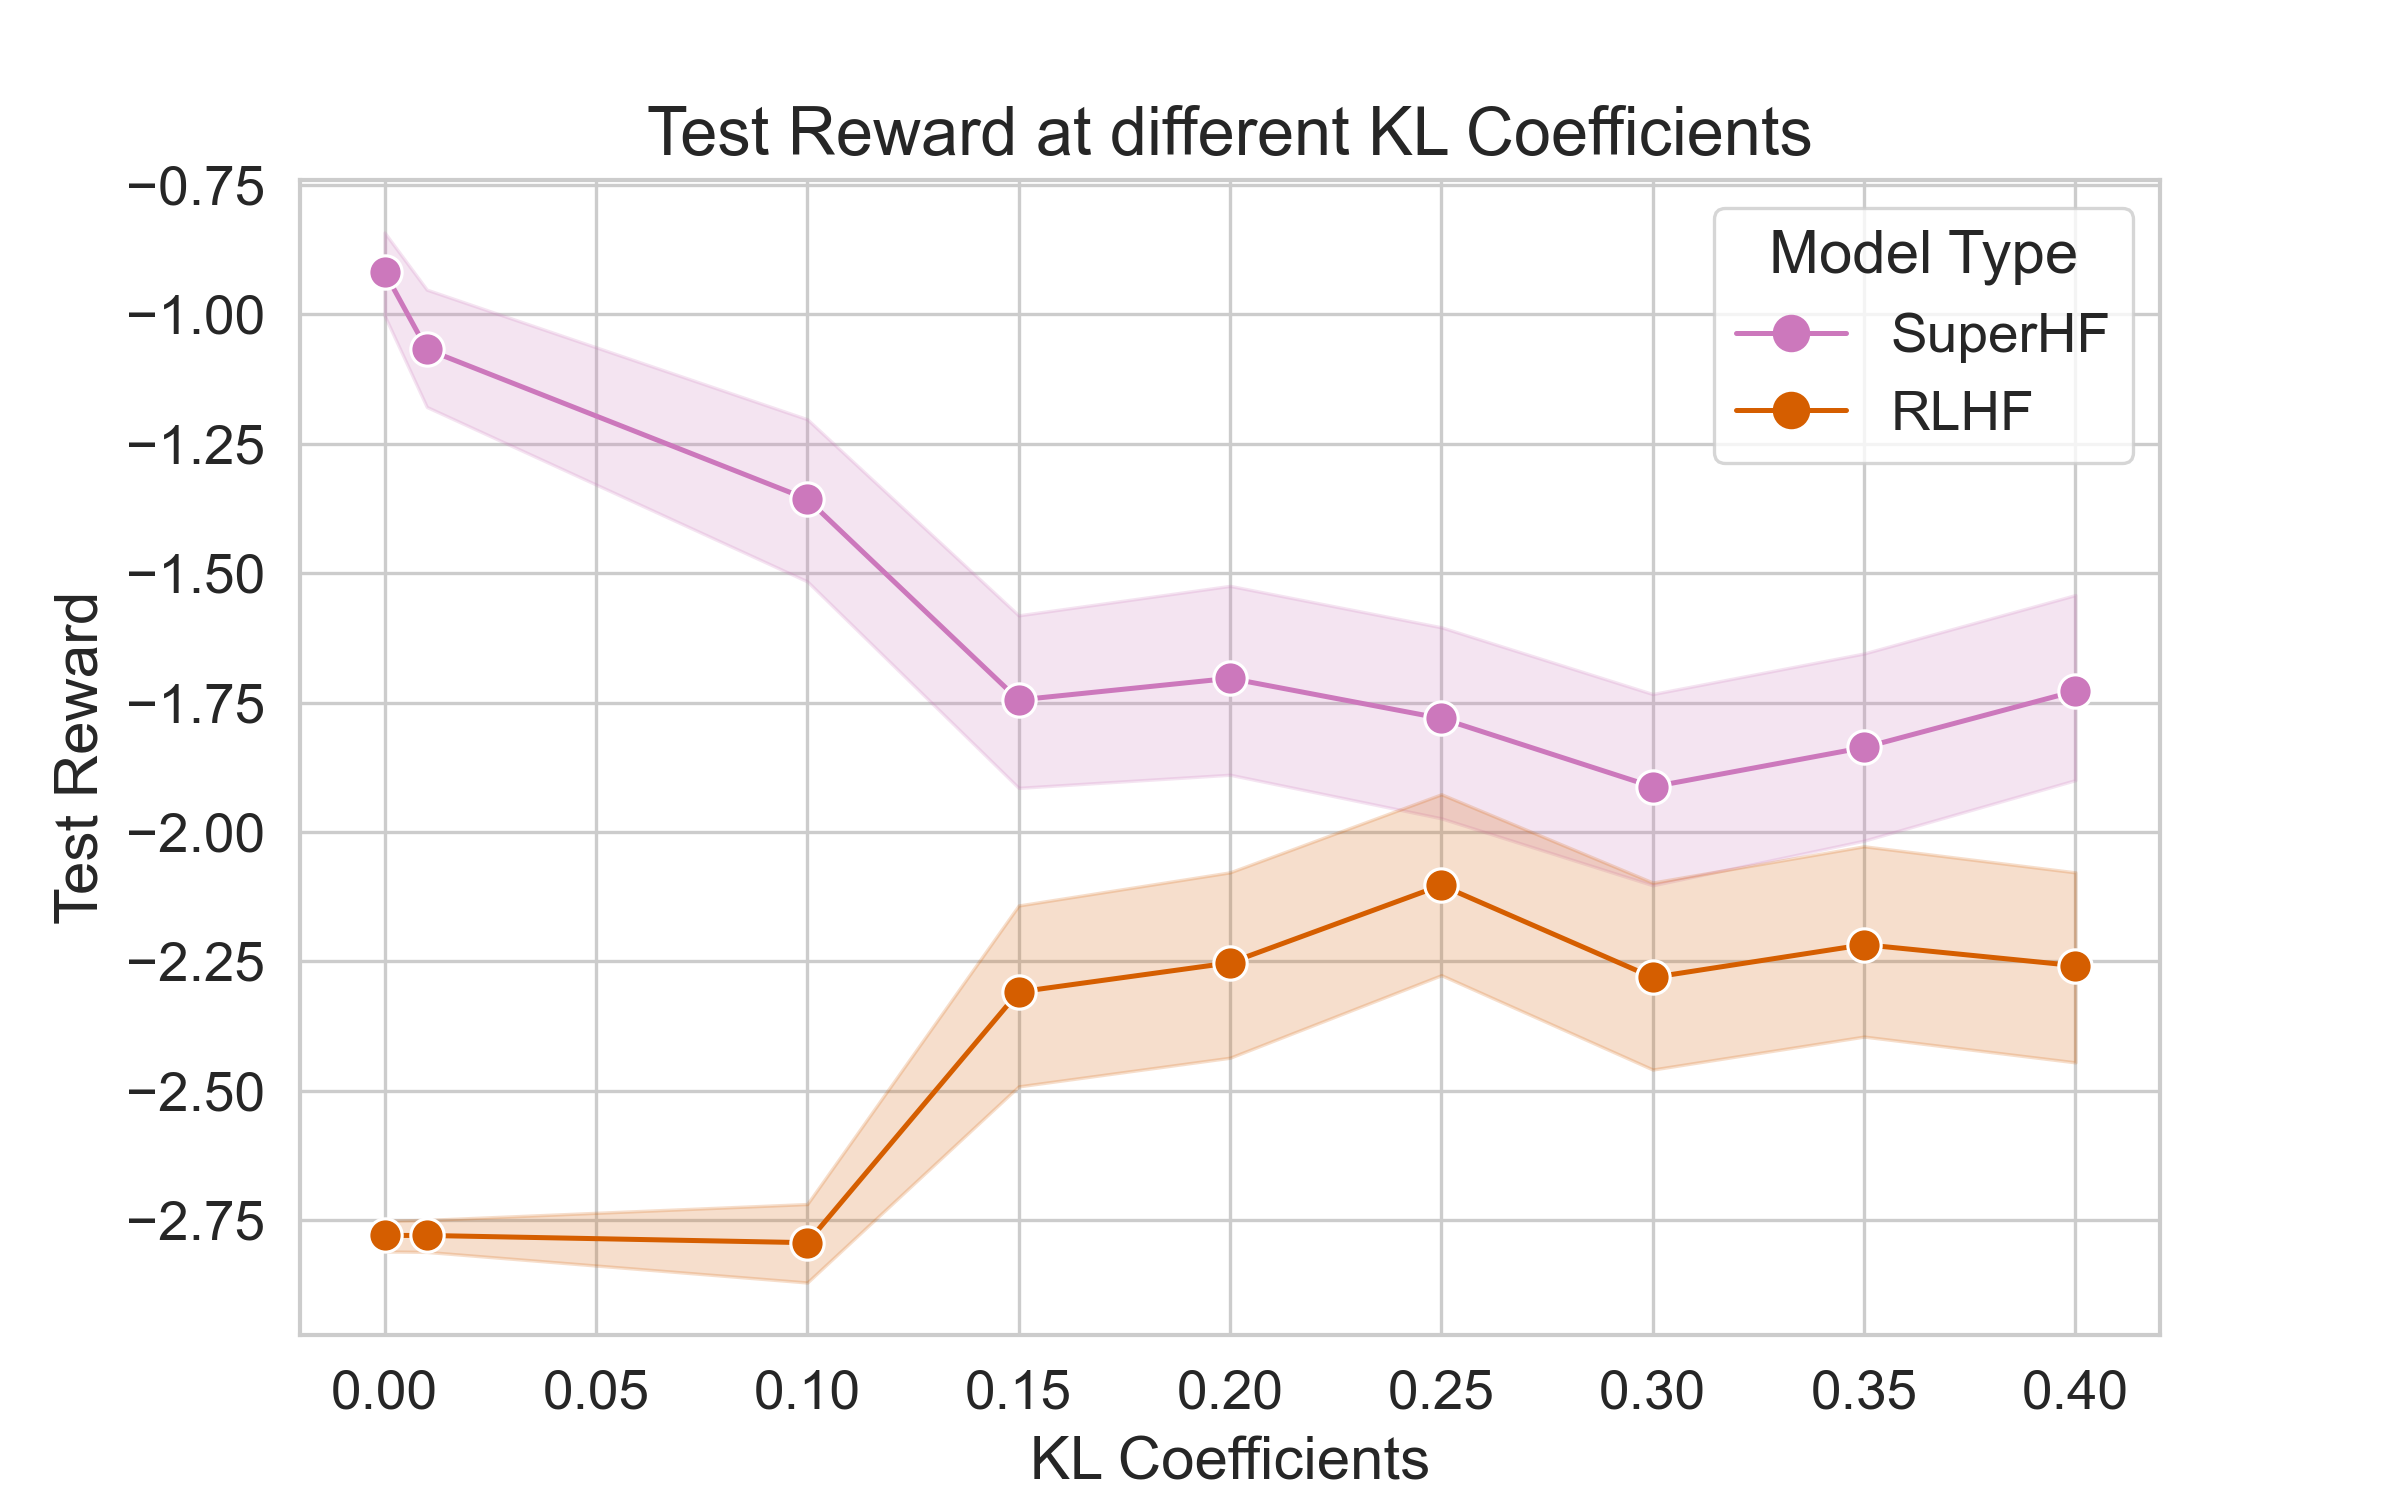
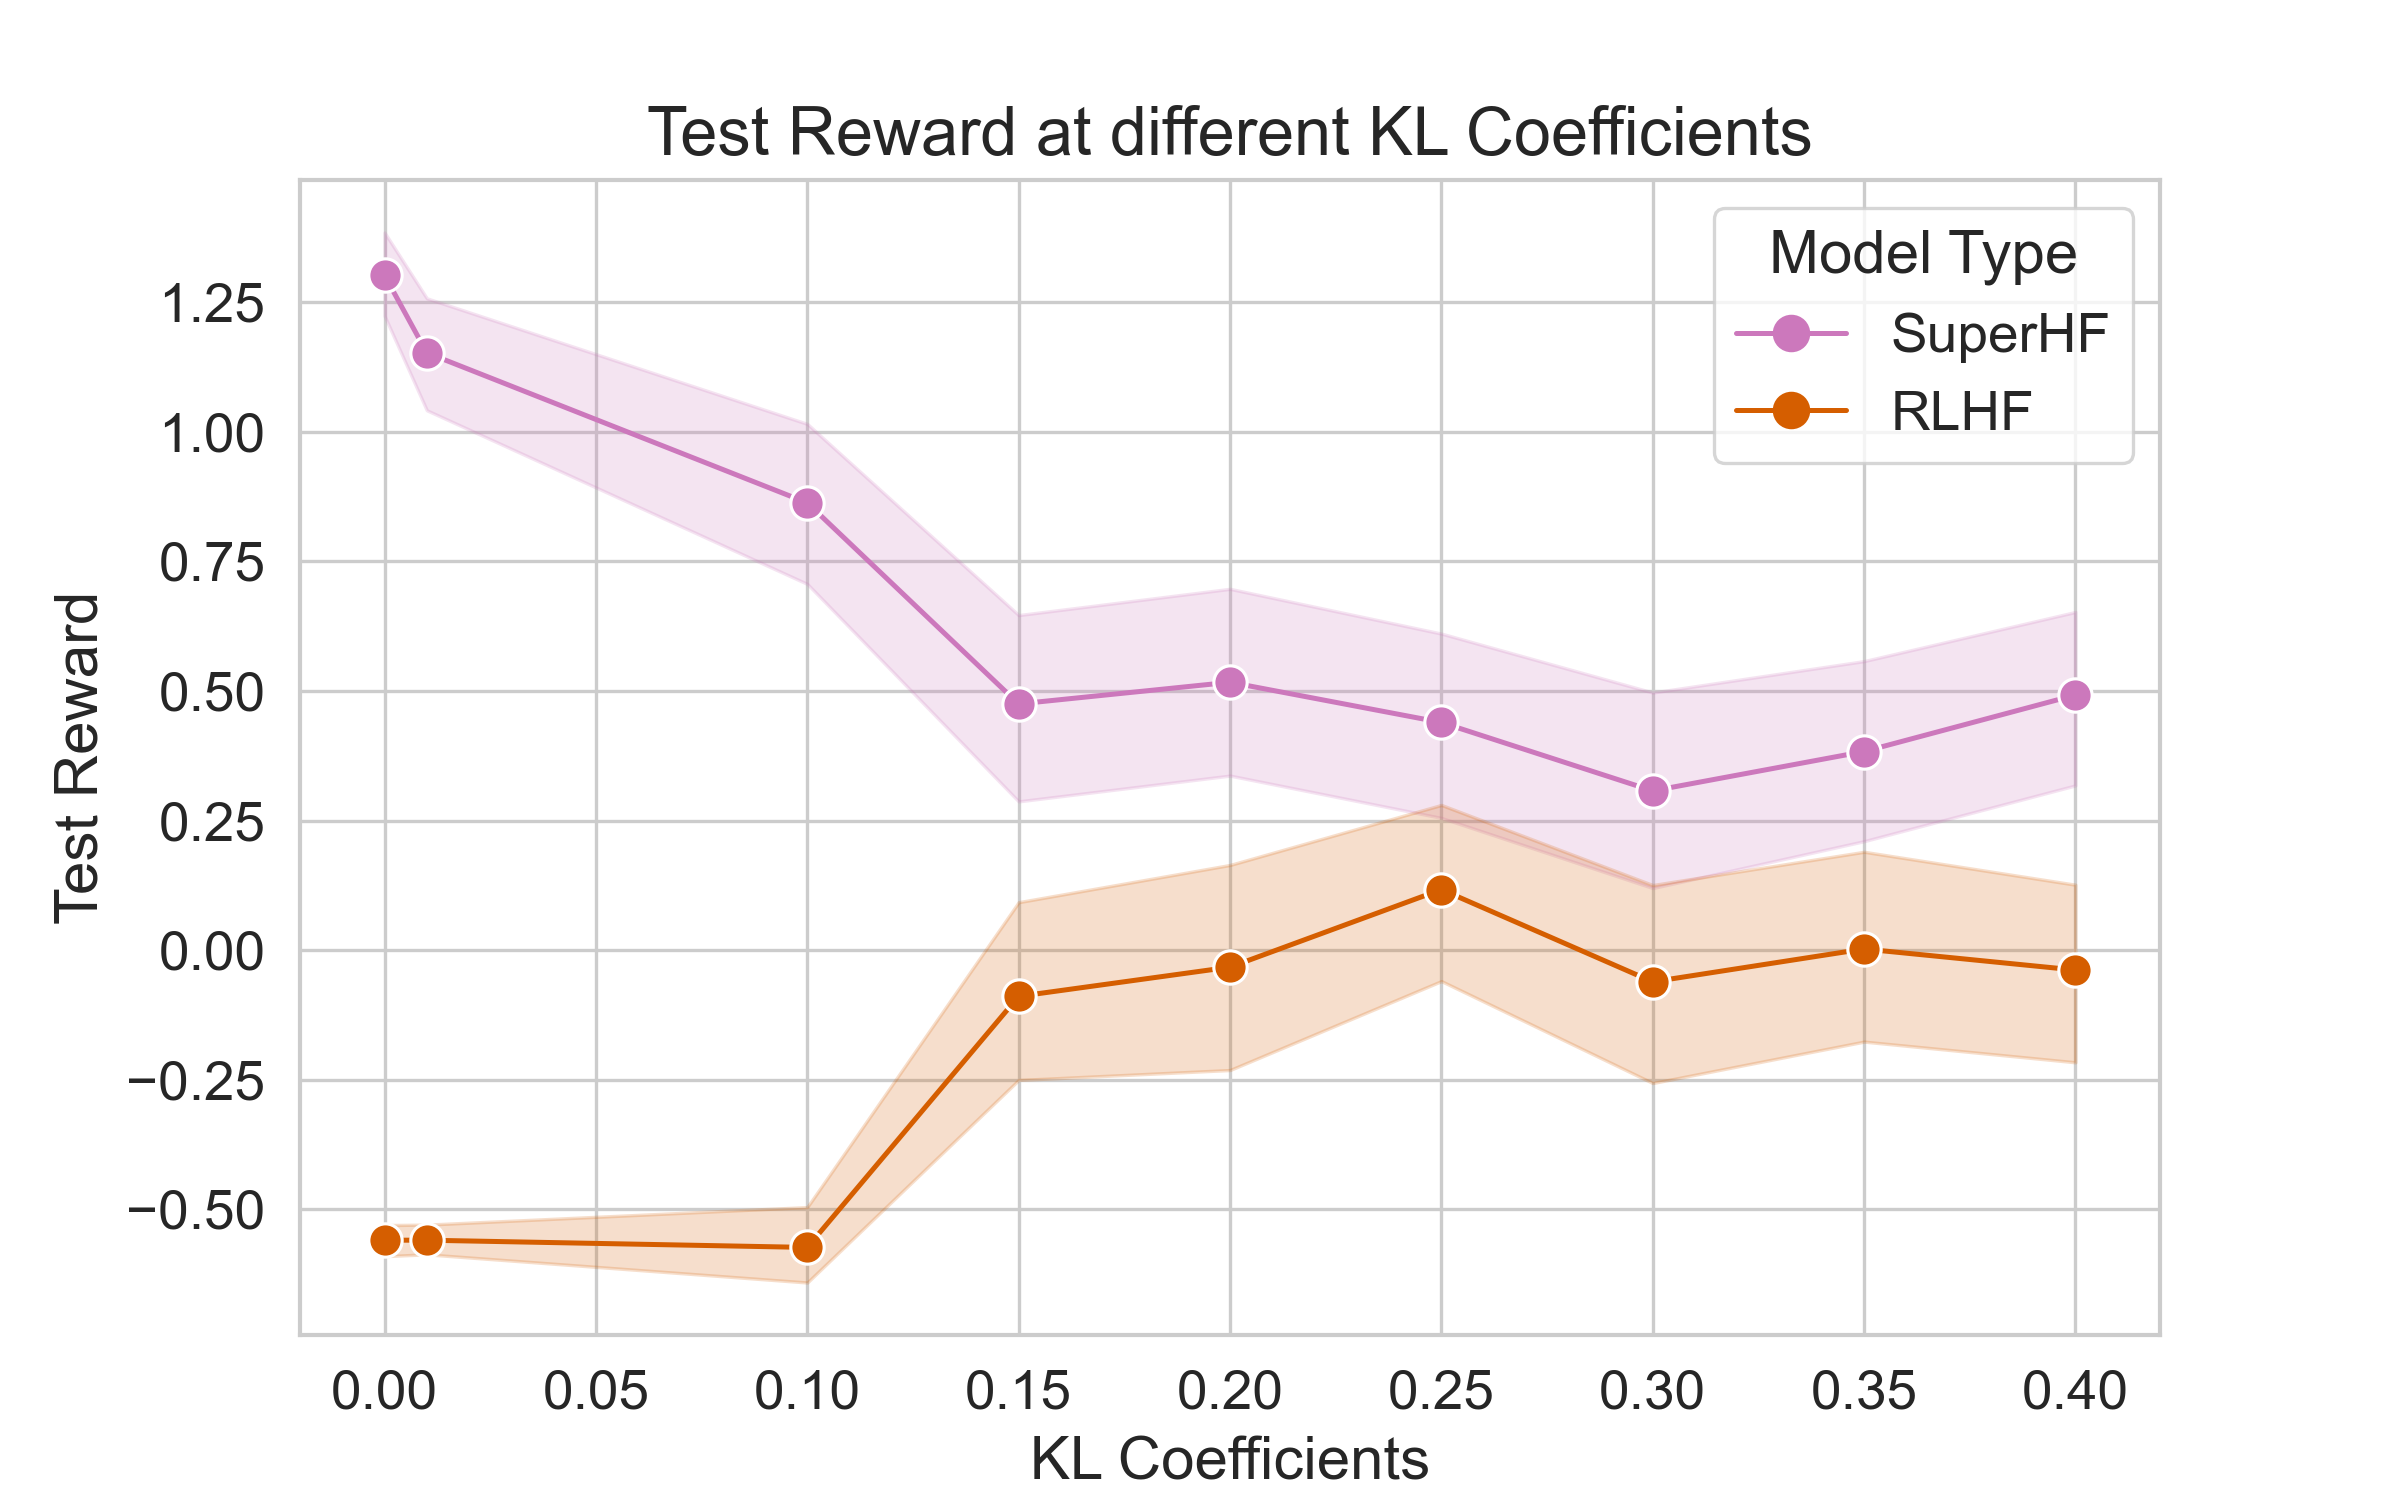
Normalize rewards

diff --git a/charts/kl_coefficient.py b/charts/kl_coefficient.py
@@ -1,6 +1,5 @@
 """Graph the reward as a function of KL coefficient."""
 
-import json
 import pandas as pd
 import seaborn as sns
 import matplotlib.pyplot as plt
@@ -8,7 +7,7 @@ import matplotlib.pyplot as plt
 from chart_utils import (
     initialize_plot,
     model_type_to_palette_color,
-    flatten_2d_vector,
+    get_test_scores,
     save_plot,
 )
 
@@ -32,31 +31,16 @@ def main() -> None:
     all_data2 = []  # For the second dataset
     for kl_coefficient in kl_coefficients:
         url = f"experiments/evaluations/test_scores/shf-7b-kl-{kl_coefficient}.json"
-        with open(url, encoding="utf-8") as file:
-            file_data = json.loads(file.read())
-        scores = (
-            file_data["anthropic-red-team"]
-            + file_data["anthropic-helpful-base"]
-            + file_data["anthropic-harmless-base"]
-            + file_data["openai/webgpt_comparisons"]
-        )
+        scores = get_test_scores(url)
 
-        scores = flatten_2d_vector(scores)
         all_data.extend([(kl_coefficient, score, "SuperHF") for score in scores])
 
         url2 = (
             f"experiments/evaluations/test_scores/rlhf-v3-kl-sweep-kl-{kl_coefficient}"
             "@sxyq16uf.json"
         )
-        with open(url2, encoding="utf-8") as file:
-            file_data2 = json.loads(file.read())
-        scores2 = (
-            file_data2["anthropic-red-team"]
-            + file_data2["anthropic-helpful-base"]
-            + file_data2["anthropic-harmless-base"]
-            + file_data2["openai/webgpt_comparisons"]
-        )
-        scores2 = flatten_2d_vector(scores2)
+
+        scores2 = get_test_scores(url2)
         all_data2.extend([(kl_coefficient, score, "RLHF") for score in scores2])
 
     dataframe = pd.DataFrame(

diff --git a/charts/chart_utils.py b/charts/chart_utils.py
@@ -79,9 +79,8 @@ def create_file_dir_if_not_exists(file_path: str) -> None:
         os.makedirs(file_dir)
 
 
-def get_test_scores(file_path: str) -> list[float]:
+def get_test_scores(file_path: str) -> list[Any]:
     """Get the test scores from a file."""
-    output = []
     file_data = load_json(file_path)
     scores = (
         file_data["anthropic-red-team"]
@@ -90,11 +89,16 @@ def get_test_scores(file_path: str) -> list[float]:
         + file_data["openai/webgpt_comparisons"]
     )
     # Unwrap scores from 2D array
-    scores = flatten_2d_vector(scores)
+    output = flatten_2d_vector(scores)
+
+    # Normalize scores (see experiments/evaluations/find_average_train_and_test_rm_scores.py)
+    assert "train_scores" in file_path or "test_scores" in file_path
+    if "train_scores" in file_path:
+        output = [score - -2.65 for score in output]
+    elif "test_scores" in file_path:
+        output = [score - -2.22 for score in output]
 
     # Add the data
-    for score in scores:
-        output.append(score)
     return output
 
 

diff --git a/charts/model_comparsions.py b/charts/model_comparsions.py
@@ -5,11 +5,11 @@ import matplotlib.pyplot as plt
 import pandas as pd
 import seaborn as sns
 
-from chart_utils import flatten_2d_vector, load_json, initialize_plot, save_plot
+from chart_utils import get_test_scores, initialize_plot, save_plot
 
 OUTPUT_FILE = "./charts/models/model_comparisons.png"
 
-SCORE_BIAS = 2.8
+SCORE_BIAS = 0.6
 
 
 def main() -> None:
@@ -37,16 +37,7 @@ def main() -> None:
     for model_name in model_names:
         # TODO refactor this into chart_utils.py
         file_path = f"./experiments/evaluations/test_scores/{model_name}"
-        file_data = load_json(file_path)
-        scores = (
-            file_data["anthropic-red-team"]
-            + file_data["anthropic-helpful-base"]
-            + file_data["anthropic-harmless-base"]
-            + file_data["openai/webgpt_comparisons"]
-        )
-        # Unwra
-        # Unwrap scores from 2D array
-        scores = flatten_2d_vector(scores)
+        scores = get_test_scores(file_path)
 
         print(f"{model_name} mean score: {np.mean(scores):.2f}")
 
